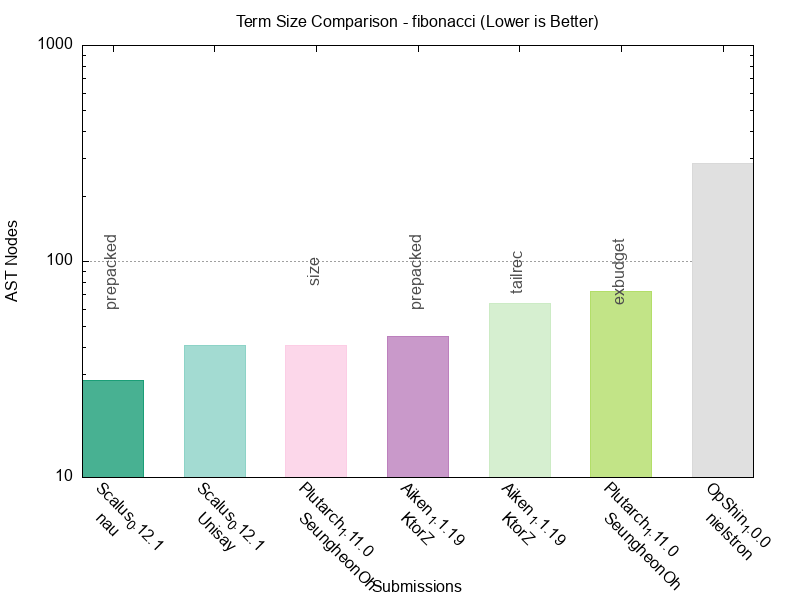
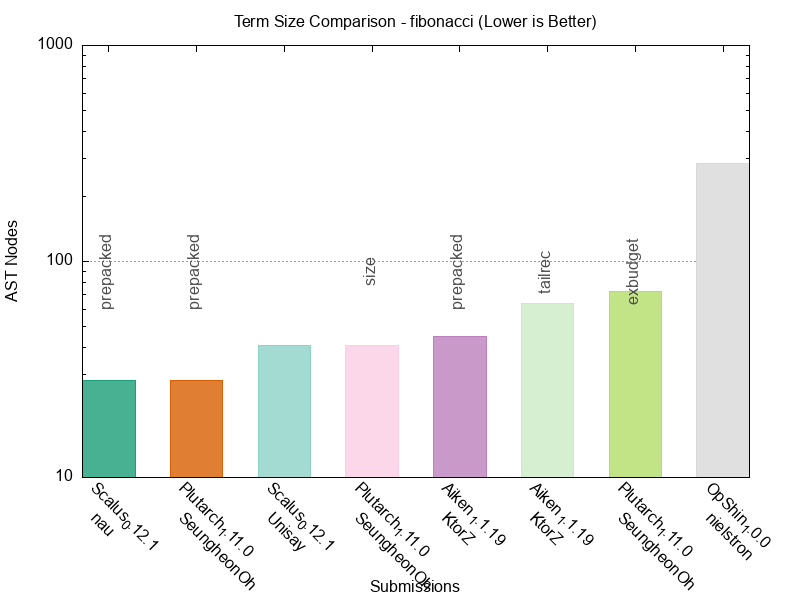
chore(reports): regenerate HTML reports with updated Plutarch data
Regenerate all benchmark HTML reports to include updated Plutarch submission data, particularly the fibonacci prepacked variant with corrected lessThanInteger builtin usage.

Updated charts reflect new performance metrics for all synchronized Plutarch submissions.

diff --git a/report/index.html b/report/index.html
@@ -232,7 +232,7 @@
     </div>
 
     <div class="timestamp">
-        Generated on: 2025-10-21 22:14:27 CEST
+        Generated on: 2025-10-23 12:05:25 CEST
     </div>
     
     <!-- Benchmark Summary Table -->
@@ -479,7 +479,7 @@
                     </div>
                     <div class="count">
                         
-                            (7 submissions)
+                            (8 submissions)
                         
                     </div>
                 </div>
@@ -587,6 +587,28 @@
                                 </td>
                                 <td class="numeric script-value">81</td>
                                 <td class="numeric term-value">73</td>
+                            </tr>
+                            
+                            <tr data-cpu="17845279" data-memory="31792" data-script="118" data-term="28">
+                                <td>Plutarch</td>
+                                <td>1.11.0</td>
+                                <td>prepacked</td>
+                                <td>SeungheonOh</td>
+                                <td>2025-10-23</td>
+                                <td class="numeric">
+                                    <span class="tooltip">
+                                        <span class="cpu-value">17.85M</span>
+                                        <span class="tooltiptext">17845279</span>
+                                    </span>
+                                </td>
+                                <td class="numeric">
+                                    <span class="tooltip">
+                                        <span class="memory-value">31.79K</span>
+                                        <span class="tooltiptext">31792</span>
+                                    </span>
+                                </td>
+                                <td class="numeric script-value">118</td>
+                                <td class="numeric term-value">28</td>
                             </tr>
                             
                             <tr data-cpu="175016233630" data-memory="641939062" data-script="47" data-term="41">

diff --git a/report/benchmarks/fibonacci.html b/report/benchmarks/fibonacci.html
@@ -175,7 +175,7 @@
     </div>
 
     <div class="timestamp">
-        Generated on: 2025-10-21 22:14:14 CEST
+        Generated on: 2025-10-23 12:05:11 CEST
     </div>
     
     <div class="benchmark-section">
@@ -231,6 +231,19 @@
                     <td class="numeric">28</td>
                     <td><a href="https://github.com/IntersectMBO/UPLC-CAPE/blob/main/submissions/fibonacci/Scalus_0.12.1_nau_prepacked/source/README.md" target="_blank" rel="noopener">📁</a></td>
                     <td><a href="https://github.com/IntersectMBO/UPLC-CAPE/blob/main/submissions/fibonacci/Scalus_0.12.1_nau_prepacked/fibonacci.uplc" target="_blank" rel="noopener">🔗</a></td>
+                </tr>
+                <tr>
+                    <td>2025-10-23T10:04:40Z</td>
+                    <td>Plutarch</td>
+                    <td>1.11.0</td>
+                    <td>prepacked</td>
+                    <td>SeungheonOh</td>
+                    <td class="numeric">17845279</td>
+                    <td class="numeric">31792</td>
+                    <td class="numeric">118</td>
+                    <td class="numeric">28</td>
+                    <td><a href="https://github.com/IntersectMBO/UPLC-CAPE/blob/main/submissions/fibonacci/Plutarch_1.11.0_SeungheonOh_prepacked/source/README.md" target="_blank" rel="noopener">📁</a></td>
+                    <td><a href="https://github.com/IntersectMBO/UPLC-CAPE/blob/main/submissions/fibonacci/Plutarch_1.11.0_SeungheonOh_prepacked/fibonacci.uplc" target="_blank" rel="noopener">🔗</a></td>
                 </tr>
                 <tr>
                     <td>2025-10-18T12:29:30Z</td>

diff --git a/report/benchmarks/factorial.html b/report/benchmarks/factorial.html
@@ -175,7 +175,7 @@
     </div>
 
     <div class="timestamp">
-        Generated on: 2025-10-21 22:14:03 CEST
+        Generated on: 2025-10-23 12:05:00 CEST
     </div>
     
     <div class="benchmark-section">

diff --git a/report/benchmarks/factorial_naive_recursion.html b/report/benchmarks/factorial_naive_recursion.html
@@ -175,7 +175,7 @@
     </div>
 
     <div class="timestamp">
-        Generated on: 2025-10-21 22:14:08 CEST
+        Generated on: 2025-10-23 12:05:05 CEST
     </div>
     
     <div class="benchmark-section">

diff --git a/report/benchmarks/fibonacci_naive_recursion.html b/report/benchmarks/fibonacci_naive_recursion.html
@@ -175,7 +175,7 @@
     </div>
 
     <div class="timestamp">
-        Generated on: 2025-10-21 22:14:19 CEST
+        Generated on: 2025-10-23 12:05:17 CEST
     </div>
     
     <div class="benchmark-section">

diff --git a/report/benchmarks/two-party-escrow.html b/report/benchmarks/two-party-escrow.html
@@ -175,7 +175,7 @@
     </div>
 
     <div class="timestamp">
-        Generated on: 2025-10-21 22:14:24 CEST
+        Generated on: 2025-10-23 12:05:22 CEST
     </div>
     
     <div class="benchmark-section">
